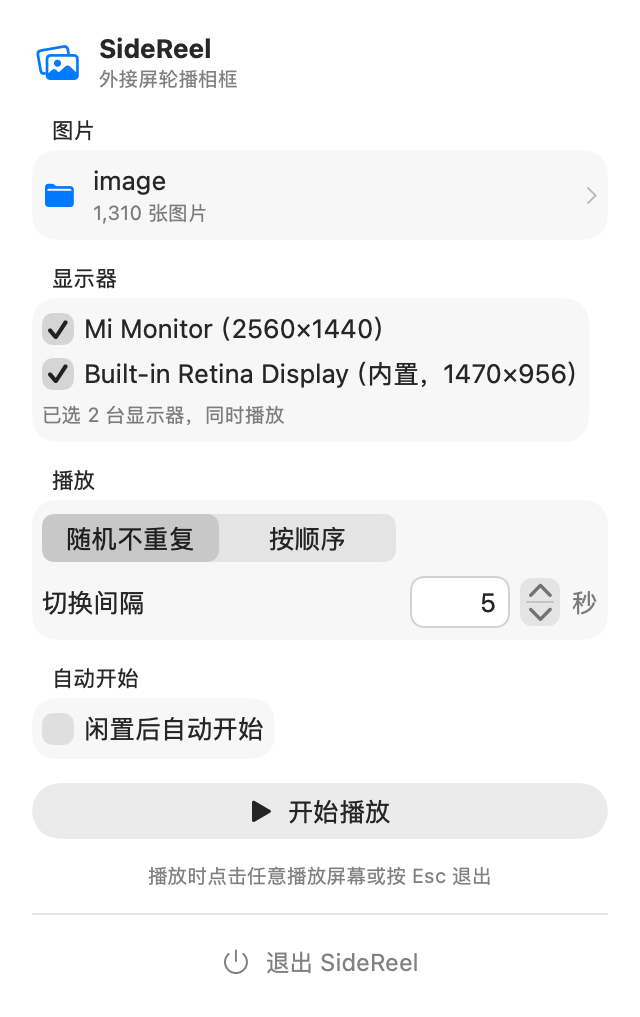
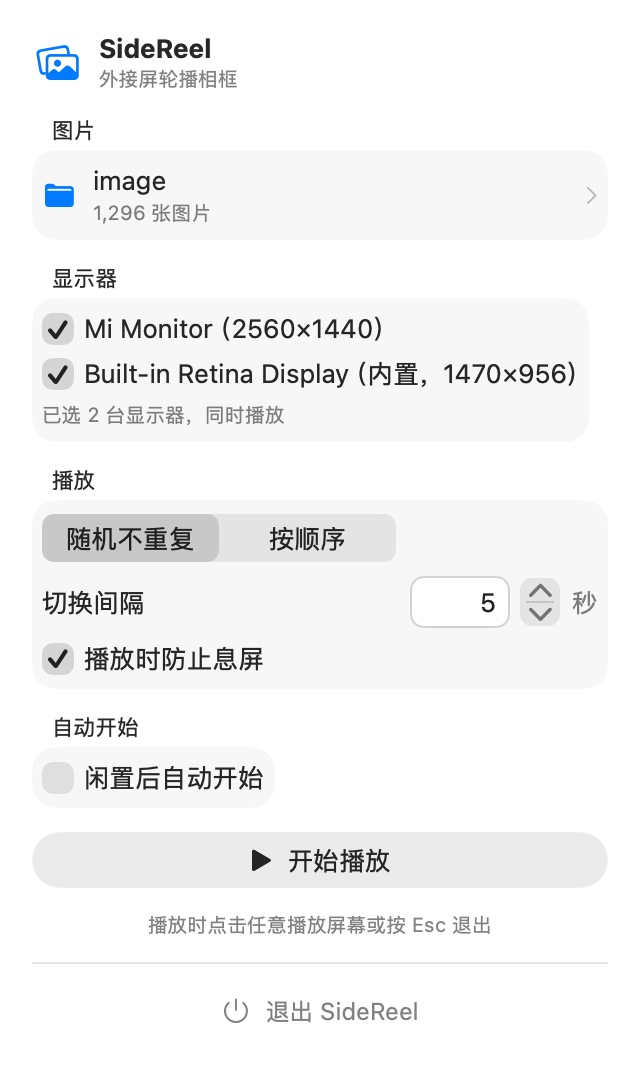
Add a keep-awake toggle so playback can respect system display sleep
- New "prevent display sleep while playing" switch (default on) in the panel
- When off, no idleDisplaySleepDisabled assertion is held, so the system
  display-sleep timer applies even during playback; toggling applies live
- Bump version to 0.0.4

diff --git a/Sources/SlideshowKit/SlideshowController.swift b/Sources/SlideshowKit/SlideshowController.swift
@@ -32,10 +32,11 @@ public final class SlideshowController: ObservableObject {
     private var activity: NSObjectProtocol?
     private var screenObserver: NSObjectProtocol?
     private var loadGeneration = 0
+    private var keepAwake = true
 
     public init() {}
 
-    public func start(folder: URL, screens: [NSScreen], interval: TimeInterval, order: PlaybackOrder) throws {
+    public func start(folder: URL, screens: [NSScreen], interval: TimeInterval, order: PlaybackOrder, keepAwake: Bool) throws {
         stop()
 
         var isDirectory: ObjCBool = false
@@ -84,10 +85,13 @@ public final class SlideshowController: ObservableObject {
         }
         NSApp.activate()
 
-        activity = ProcessInfo.processInfo.beginActivity(
-            options: .idleDisplaySleepDisabled,
-            reason: "SideReel 正在播放图片轮播"
-        )
+        self.keepAwake = keepAwake
+        if keepAwake {
+            activity = ProcessInfo.processInfo.beginActivity(
+                options: .idleDisplaySleepDisabled,
+                reason: "SideReel 正在播放图片轮播"
+            )
+        }
 
         screenObserver = NotificationCenter.default.addObserver(
             forName: NSApplication.didChangeScreenParametersNotification,
@@ -130,6 +134,20 @@ public final class SlideshowController: ObservableObject {
         if isRunning {
             isRunning = false
             NSLog("SideReel: stopped")
+        }
+    }
+
+    public func setKeepAwake(_ on: Bool) {
+        keepAwake = on
+        guard isRunning else { return }
+        if on, activity == nil {
+            activity = ProcessInfo.processInfo.beginActivity(
+                options: .idleDisplaySleepDisabled,
+                reason: "SideReel 正在播放图片轮播"
+            )
+        } else if !on, let activity {
+            ProcessInfo.processInfo.endActivity(activity)
+            self.activity = nil
         }
     }
 

diff --git a/Sources/SideReel/PanelView.swift b/Sources/SideReel/PanelView.swift
@@ -9,6 +9,7 @@ struct PanelView: View {
     @AppStorage(ConfigKeys.shuffle) private var shuffle = true
     @AppStorage(ConfigKeys.idleEnabled) private var idleEnabled = false
     @AppStorage(ConfigKeys.idleMinutes) private var idleMinutes = 5
+    @AppStorage(ConfigKeys.keepAwake) private var keepAwake = true
 
     @EnvironmentObject private var slideshow: SlideshowController
     @StateObject private var counter = FolderImageCounter()
@@ -87,6 +88,11 @@ struct PanelView: View {
                         Text("秒")
                             .foregroundStyle(.secondary)
                     }
+
+                    Toggle("播放时防止息屏", isOn: $keepAwake)
+                        .onChange(of: keepAwake) { _, on in
+                            slideshow.setKeepAwake(on)
+                        }
                 }
                 .padding(.vertical, 2)
             }

diff --git a/Sources/SideReel/AppDelegate.swift b/Sources/SideReel/AppDelegate.swift
@@ -57,7 +57,8 @@ final class AppDelegate: NSObject, NSApplicationDelegate {
                 folder: URL(fileURLWithPath: folderPath),
                 screens: screens,
                 interval: defaults.double(forKey: ConfigKeys.interval),
-                order: defaults.bool(forKey: ConfigKeys.shuffle) ? .shuffle : .sequential
+                order: defaults.bool(forKey: ConfigKeys.shuffle) ? .shuffle : .sequential,
+                keepAwake: defaults.bool(forKey: ConfigKeys.keepAwake)
             )
             return nil
         } catch {

diff --git a/Sources/SideReel/ConfigKeys.swift b/Sources/SideReel/ConfigKeys.swift
@@ -7,6 +7,7 @@ enum ConfigKeys {
     static let shuffle = "shuffle"
     static let idleEnabled = "idleEnabled"
     static let idleMinutes = "idleMinutes"
+    static let keepAwake = "keepAwake"
 
     static func registerDefaults() {
         let defaults = UserDefaults.standard
@@ -21,6 +22,7 @@ enum ConfigKeys {
             shuffle: true,
             idleEnabled: false,
             idleMinutes: 5,
+            keepAwake: true,
         ])
     }
 }

diff --git a/Sources/SlideshowSelfTest/main.swift b/Sources/SlideshowSelfTest/main.swift
@@ -70,7 +70,7 @@ func cocoaToCG(_ rect: CGRect) -> CGRect {
 }
 
 do {
-    try controller.start(folder: folder, screens: [screen], interval: 2, order: .shuffle)
+    try controller.start(folder: folder, screens: [screen], interval: 2, order: .shuffle, keepAwake: true)
     check(true, "slideshow started")
 } catch {
     print("FAIL: start threw \(error.localizedDescription)")
